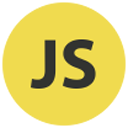
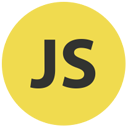
Se agrego una nueva sección y se corrigieron iconos.

diff --git a/template/library.html b/template/library.html
@@ -1,0 +1,19 @@
+<div class="text-center" style="margin: 25px 0;">
+    <button class="btn btn-lg btn-danger animated rubberBand" ui-sref="home"><i class="glyphicon glyphicon-th"></i><br>Menu</button>
+</div>
+
+<div class="animated fadeInUp bg-success">
+    <div class="container">
+        <h1>Librerias</h1>
+        <p class="lead"></p>
+        <div class="row form-group">
+            <img src="img/jquery.png" alt="jquery" class="icon pull-left">
+            <p class="descripcion">JQuery </p>
+        </div>
+        <div class="row form-group">
+            <img src="img/visjs.png" alt="visjs" class="icon pull-left">
+            <p class="descripcion">VisJS </p>
+        </div>
+    </div>
+</div>
+

diff --git a/template/home.html b/template/home.html
@@ -8,7 +8,7 @@
             <a class="btn btn-block btn-lg btn-default" ui-sref="frameworks">Frameworks</a>
         </div>
         <div class="col-sm-6 form-group animated fadeInLeft" style="animation-delay: 0.3s">
-            <button class="btn btn-block btn-lg btn-warning">Librerias</button>
+            <a class="btn btn-block btn-lg btn-warning" ui-sref="library">Librerias</a>
         </div>
         <div class="col-sm-6 form-group animated fadeInRight" style="animation-delay: 0.3s">
             <button class="btn btn-block btn-lg btn-warning">Herramientas</button>

diff --git a/css/style.css b/css/style.css
@@ -34,11 +34,13 @@ legend {
   text-align: left;
 }
 .bg-primary,
-.bg-danger {
+.bg-danger,
+.bg-success {
   padding: 25px 5px 40px 5px;
 }
 .bg-primary h1,
-.bg-danger h1 {
+.bg-danger h1,
+.bg-success h1 {
   font: 100%/1.5 "Roboto", Verdana, sans-serif;
   font-weight: 100;
   font-size: 3rem;
@@ -49,6 +51,10 @@ legend {
 }
 .bg-primary {
   background-color: #2B80C2;
+  color: white;
+}
+.bg-success {
+  background-color: #37A249;
   color: white;
 }
 .icon {

diff --git a/less/style.less b/less/style.less
@@ -41,7 +41,7 @@ legend{
     text-align: left;
 }
 
-.bg-primary, .bg-danger{
+.bg-primary, .bg-danger, .bg-success{
     padding: 25px 5px 40px 5px;
     h1{
         font: 100%/1.5 "Roboto", Verdana, sans-serif;
@@ -57,6 +57,11 @@ legend{
 
 .bg-primary{
     background-color: #2B80C2;
+    color: white;
+}
+
+.bg-success{
+    background-color: #37A249;
     color: white;
 }
 

diff --git a/js/app.js b/js/app.js
@@ -18,6 +18,10 @@ app.config([
                 url: '/frameworks',
                 templateUrl: 'template/frameworks.html'
             })
+            .state('library', {
+                url: '/library',
+                templateUrl: 'template/library.html'
+            })
         ;
     }
 ]);
